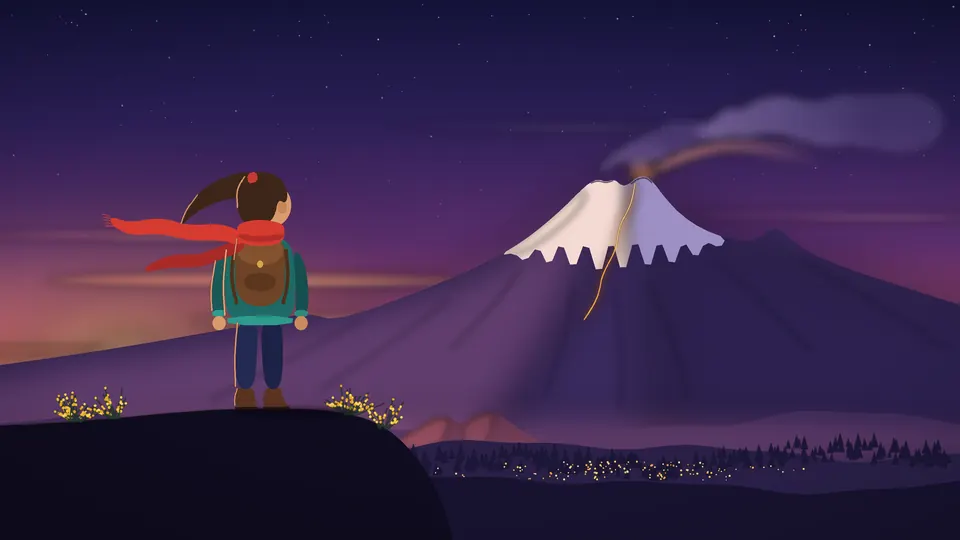
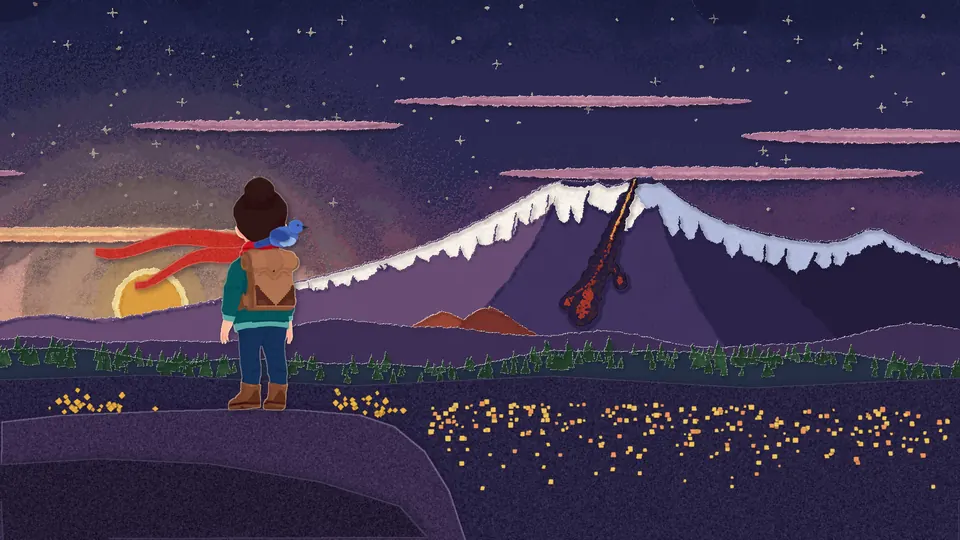
update site to cut paper version game

diff --git a/index.html b/index.html
@@ -185,23 +185,23 @@
     </div>
     <!-- No data-i18n on the pictures: switching language rewrites those elements. -->
     <div class="frame reveal"><img src="img/dialogo.webp" width="1280" height="720" loading="lazy" decoding="async"
-      alt="Agata speaks to her grandfather at the gates of Nicolosi, Mount Etna behind the roofs at sunset."></div>
+      alt="Agata speaks to her grandfather at the gates of Nicolosi, Mount Etna behind the roofs, all in cut paper."></div>
   </div>
 </section>
 
 <section id="game" class="alt">
   <div class="wrap">
     <h2 class="reveal" data-i18n="game.title">The Game</h2>
-    <p class="lead reveal" data-i18n="game.lead">A precision platformer in pixel art, one screen at a time, from the roofs of the town up to the crater.</p>
+    <p class="lead reveal" data-i18n="game.lead">A precision platformer in cut paper, one screen at a time, from the roofs of the town up to the crater.</p>
     <div class="features">
-      <div class="feat reveal"><div class="n">01</div><h3 data-i18n="feat.1t">Jump, climb, dash</h3><p data-i18n="feat.1d">Pixel-exact controls: a jump you can shape, walls to climb while your grip lasts, and a dash in eight directions.</p></div>
-      <div class="feat reveal"><div class="n">02</div><h3 data-i18n="feat.2t">One room, one idea</h3><p data-i18n="feat.2d">Every screen is made by hand around one thing: quarry slabs that bolt when you step on them, embers that give your dash back in mid-air, fumaroles that throw you upward.</p></div>
+      <div class="feat reveal"><div class="n">01</div><h3 data-i18n="feat.1t">Jump, and a wingbeat</h3><p data-i18n="feat.1d">Pixel-exact controls: a jump you can shape, one wingbeat in the air from the blue rock thrush on her backpack, and walls to kick off as you slide down them.</p></div>
+      <div class="feat reveal"><div class="n">02</div><h3 data-i18n="feat.2t">One room, one idea</h3><p data-i18n="feat.2d">Every screen is made by hand around one thing: the old mule rings in the walls, caught with her red scarf; prickly pears to bounce on with Grandpa's stick; a dog on its chain, wheels of fire, quarry slabs that bolt when you step on them.</p></div>
       <div class="feat reveal"><div class="n">03</div><h3 data-i18n="feat.3t">Fall, and go again</h3><p data-i18n="feat.3d">It is hard, and it does not waste your time: you start again at once, in the same room.</p></div>
-      <div class="feat reveal"><div class="n">04</div><h3 data-i18n="feat.4t">A real mountain</h3><p data-i18n="feat.4d">Etna's skyline, as you see it from the south, over every open-air room, and the churches of Nicolosi drawn from photographs.</p></div>
+      <div class="feat reveal"><div class="n">04</div><h3 data-i18n="feat.4t">A real mountain</h3><p data-i18n="feat.4d">Etna's skyline, as you see it from the south, over every open-air room, and the churches of Nicolosi drawn from photographs, all cut out of paper.</p></div>
       <div class="feat reveal"><div class="n">05</div><h3 data-i18n="feat.5t">Worth the detour</h3><p data-i18n="feat.5d">Prickly pears hidden in rooms of their own, Grandpa's postcards, pistachios for Aunt Pina's cake, and one secret in every chapter.</p></div>
       <div class="feat reveal"><div class="n">06</div><h3 data-i18n="feat.6t">Your way</h3><p data-i18n="feat.6d">In Italian and English, with keyboard or controller, controls you can remap and assists such as infinite lives.</p></div>
     </div>
-    <div class="tech reveal"><span>Godot Engine</span><span>Pixel art</span><span>Windows · Linux</span><span data-i18n="tech.solo">Indie · Solo dev</span></div>
+    <div class="tech reveal"><span>Godot Engine</span><span>Cut paper</span><span>Windows · Linux · Browser</span><span data-i18n="tech.solo">Indie · Solo dev</span></div>
   </div>
 </section>
 
@@ -210,56 +210,56 @@
     <h2 class="reveal" data-i18n="media.title">Media</h2>
     <p class="lead reveal" data-i18n="media.lead">Screenshots from the first chapter, Nicolosi. More coming soon.</p>
     <div class="shots">
-      <a class="shot px reveal" href="img/nicolosi.webp" target="_blank" rel="noopener">
+      <a class="shot reveal" href="img/nicolosi.webp" target="_blank" rel="noopener">
         <img src="img/nicolosi_960.webp" srcset="img/nicolosi_960.webp 960w, img/nicolosi.webp 1920w" sizes="(max-width: 700px) 100vw, 33vw"
           width="1920" height="1080" loading="lazy" decoding="async"
-          alt="The road into Nicolosi at sunset: the town's sign, low walls of lava stone and Mount Etna over the roofs.">
+          alt="The square of Nicolosi in cut paper: the yellow church with its bell tower of lava stone, and Mount Etna over the roofs.">
       </a>
-      <a class="shot px reveal" href="img/scatto.webp" target="_blank" rel="noopener">
+      <a class="shot reveal" href="img/scatto.webp" target="_blank" rel="noopener">
         <img src="img/scatto_960.webp" srcset="img/scatto_960.webp 960w, img/scatto.webp 1920w" sizes="(max-width: 700px) 100vw, 33vw"
           width="1920" height="1080" loading="lazy" decoding="async"
-          alt="Agata dashes through the air towards an ember, high over the roofs, with Mount Etna behind her.">
+          alt="Agata swings from an old iron ring with her red scarf, between two tall house fronts.">
       </a>
-      <a class="shot px reveal" href="img/chiesa.webp" target="_blank" rel="noopener">
+      <a class="shot reveal" href="img/chiesa.webp" target="_blank" rel="noopener">
         <img src="img/chiesa_960.webp" srcset="img/chiesa_960.webp 960w, img/chiesa.webp 1920w" sizes="(max-width: 700px) 100vw, 33vw"
           width="1920" height="1080" loading="lazy" decoding="async"
           alt="A church of Nicolosi with its bell tower, the priest at its door and the Mountain behind.">
       </a>
-      <a class="shot px reveal" href="img/cava.webp" target="_blank" rel="noopener">
+      <a class="shot reveal" href="img/cava.webp" target="_blank" rel="noopener">
         <img src="img/cava_960.webp" srcset="img/cava_960.webp 960w, img/cava.webp 1920w" sizes="(max-width: 700px) 100vw, 33vw"
           width="1920" height="1080" loading="lazy" decoding="async"
-          alt="A room of the old quarry: a slab of lava stone on its rack, broken glass on the walls, house fronts with lit windows.">
+          alt="A yard with a dog on its chain under tall house fronts; Agata slides down a wall.">
       </a>
-      <a class="shot px reveal" href="img/faville.webp" target="_blank" rel="noopener">
+      <a class="shot reveal" href="img/faville.webp" target="_blank" rel="noopener">
         <img src="img/faville_960.webp" srcset="img/faville_960.webp 960w, img/faville.webp 1920w" sizes="(max-width: 700px) 100vw, 33vw"
           width="1920" height="1080" loading="lazy" decoding="async"
-          alt="Agata in mid-dash between two roofs, two embers glowing ahead of her in the evening sky.">
+          alt="Agata bounces on a prickly pear pad with her grandfather's walking stick.">
       </a>
-      <a class="shot px reveal" href="img/boss.webp" target="_blank" rel="noopener">
+      <a class="shot reveal" href="img/boss.webp" target="_blank" rel="noopener">
         <img src="img/boss_960.webp" srcset="img/boss_960.webp 960w, img/boss.webp 1920w" sizes="(max-width: 700px) 100vw, 33vw"
           width="1920" height="1080" loading="lazy" decoding="async"
-          alt="On the roofs at night: an ember sprite burning over the chimneys, with Mount Etna in the distance.">
+          alt="Over the roofs at night: Agata throws her scarf at the town's fire sprite, with Mount Etna behind.">
       </a>
     </div>
     <div class="shots two">
-      <a class="shot px reveal" href="img/piazza.webp" target="_blank" rel="noopener">
+      <a class="shot reveal" href="img/piazza.webp" target="_blank" rel="noopener">
         <img src="img/piazza_960.webp" srcset="img/piazza_960.webp 960w, img/piazza.webp 1920w" sizes="(max-width: 700px) 100vw, 50vw"
           width="1920" height="1080" loading="lazy" decoding="async"
-          alt="The square of Nicolosi: the church with its bell tower of lava stone, street lamps, and the Mountain behind.">
+          alt="A small pink church on a stair of lava stone, and Mount Etna in the evening.">
       </a>
       <a class="shot reveal" href="img/capitolo.webp" target="_blank" rel="noopener">
         <img src="img/capitolo_960.webp" srcset="img/capitolo_960.webp 960w, img/capitolo.webp 1920w" sizes="(max-width: 700px) 100vw, 50vw"
           width="1920" height="1080" loading="lazy" decoding="async"
-          alt="The chapter screen: a small 3D model of Nicolosi under the Mountain beside the card of chapter 1.">
+          alt="The chapter screen: a small model of Nicolosi under the Mountain beside the card of chapter 1.">
       </a>
     </div>
     <div class="demo reveal">
       <span class="pill" data-i18n="demo.pill">● Out now</span>
       <div>
         <h3 data-i18n="demo.title">The demo</h3>
-        <p data-i18n="demo.p">The demo holds the whole first chapter, Nicolosi: from the road into town to the last houses. It is free, for Windows and Linux. Tell us where you stopped: every comment helps.</p>
+        <p data-i18n="demo.p">The demo holds the whole first chapter, Nicolosi: from the road into town to the last houses. It is free: play it in your browser, or download it for Windows and Linux. Tell us where you stopped: every comment helps.</p>
       </div>
-      <a class="btn primary" href="https://pawsoftwareent.itch.io/muntagna" target="_blank" rel="noopener" data-i18n="demo.cta">Download on itch.io</a>
+      <a class="btn primary" href="https://pawsoftwareent.itch.io/muntagna" target="_blank" rel="noopener" data-i18n="demo.cta">Play on itch.io</a>
     </div>
   </div>
 </section>
@@ -268,7 +268,7 @@
   <div class="wrap reveal">
     <h2 style="display:inline-block" data-i18n="studio.title">The Studio</h2>
     <img src="img/paw.webp" width="760" height="507" loading="lazy" decoding="async" alt="Paw Software Entertainment logo">
-    <p data-i18n="studio.p">Paw Software Entertainment is an independent game studio from Sicily. We make games with heart, one pixel — and one paw — at a time.</p>
+    <p data-i18n="studio.p">Paw Software Entertainment is an independent game studio from Sicily. We make games with heart, one sheet of paper — and one paw — at a time.</p>
     <div class="btns">
       <a class="btn primary" href="https://www.youtube.com/@PawSoftwareEnt" target="_blank" rel="noopener">YouTube</a>
       <a class="btn" href="https://github.com/PawSoftwareEnt" target="_blank" rel="noopener">GitHub</a>
@@ -296,19 +296,19 @@ const T = {
     "story.p2":"Salendo gli parla. Lungo la strada ci sono le persone che lo conoscevano, i posti dove la portava da bambina, e una montagna più viva che mai.",
     "story.quote":"«Mi hai fatto promettere che ti avrei portato fin lassù. Al cratere.»",
     "game.title":"Il Gioco",
-    "game.lead":"Un platformer di precisione in pixel art, uno schermo alla volta, dai tetti del paese fino al cratere.",
-    "feat.1t":"Salta, arrampicati, scatta","feat.1d":"Comandi al pixel: un salto da dosare, muri da scalare finché la presa tiene, e uno scatto in otto direzioni.",
-    "feat.2t":"Una stanza, un'idea","feat.2d":"Ogni schermata è fatta a mano attorno a una cosa sola: le lastre della cava che partono appena ci sali, le braci che ridanno lo scatto a mezz'aria, le fumarole che ti lanciano in alto.",
+    "game.lead":"Un platformer di precisione in carta ritagliata, uno schermo alla volta, dai tetti del paese fino al cratere.",
+    "feat.1t":"Salta, e un colpo d'ali","feat.1d":"Comandi al pixel: un salto da dosare, un colpo d'ali in aria dal passero solitario sullo zaino, e muri da cui spingersi via mentre ci scivoli giù.",
+    "feat.2t":"Una stanza, un'idea","feat.2d":"Ogni schermata è fatta a mano attorno a una cosa sola: gli anelli dei muli nei muri, presi con la sciarpa rossa; i fichi d'India su cui rimbalzare col bastone del nonno; un cane alla catena, ruote di fuoco, lastre della cava che partono appena ci sali.",
     "feat.3t":"Cadi e riparti","feat.3d":"È difficile, e non ti fa perdere tempo: riparti subito, dalla stessa stanza.",
-    "feat.4t":"Una montagna vera","feat.4d":"Il profilo dell'Etna, come si vede da sud, sopra ogni stanza a cielo aperto, e le chiese di Nicolosi disegnate dalle fotografie.",
+    "feat.4t":"Una montagna vera","feat.4d":"Il profilo dell'Etna, come si vede da sud, sopra ogni stanza a cielo aperto, e le chiese di Nicolosi disegnate dalle fotografie, tutto ritagliato nella carta.",
     "feat.5t":"Vale la deviazione","feat.5d":"Fichi d'India nascosti in stanze tutte per loro, le cartoline del nonno, i pistacchi per il dolce della zia Pina e un segreto in ogni capitolo.",
     "feat.6t":"A modo tuo","feat.6d":"In italiano e in inglese, con tastiera o controller, comandi che puoi cambiare e aiuti come le vite infinite.",
     "tech.solo":"Indie · Sviluppatore singolo",
     "media.title":"Media","media.lead":"Immagini dal primo capitolo, Nicolosi. Altro in arrivo.",
-    "demo.pill":"● Disponibile","demo.title":"La demo","demo.cta":"Scaricala su itch.io",
-    "demo.p":"La demo contiene tutto il primo capitolo, Nicolosi: dalla strada che entra in paese alle ultime case. È gratuita, per Windows e Linux. Dicci dove ti sei fermato: ogni commento aiuta.",
+    "demo.pill":"● Disponibile","demo.title":"La demo","demo.cta":"Giocala su itch.io",
+    "demo.p":"La demo contiene tutto il primo capitolo, Nicolosi: dalla strada che entra in paese alle ultime case. È gratuita: giocala nel browser, o scaricala per Windows e Linux. Dicci dove ti sei fermato: ogni commento aiuta.",
     "studio.title":"Lo Studio",
-    "studio.p":"Paw Software Entertainment è uno studio indipendente siciliano. Facciamo giochi con il cuore, un pixel — e una zampa — alla volta.",
+    "studio.p":"Paw Software Entertainment è uno studio indipendente siciliano. Facciamo giochi con il cuore, un foglio di carta — e una zampa — alla volta.",
     "studio.also":"Dallo stesso studio:",
     "footer.made":"Fatto con Godot"
   }
